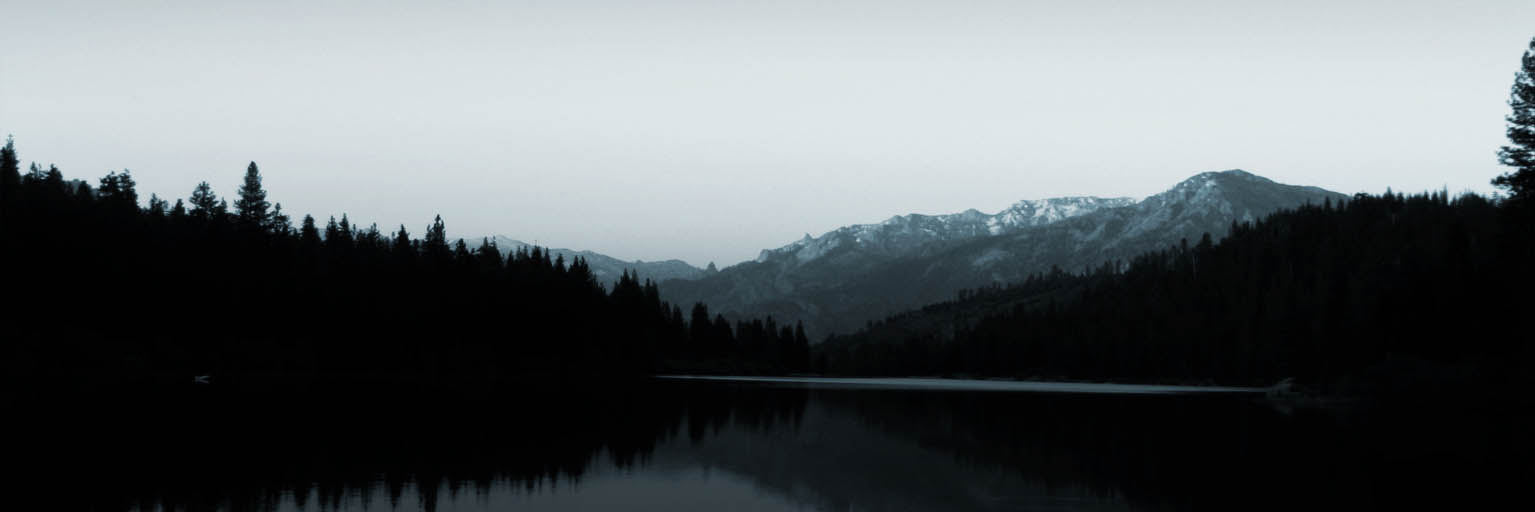
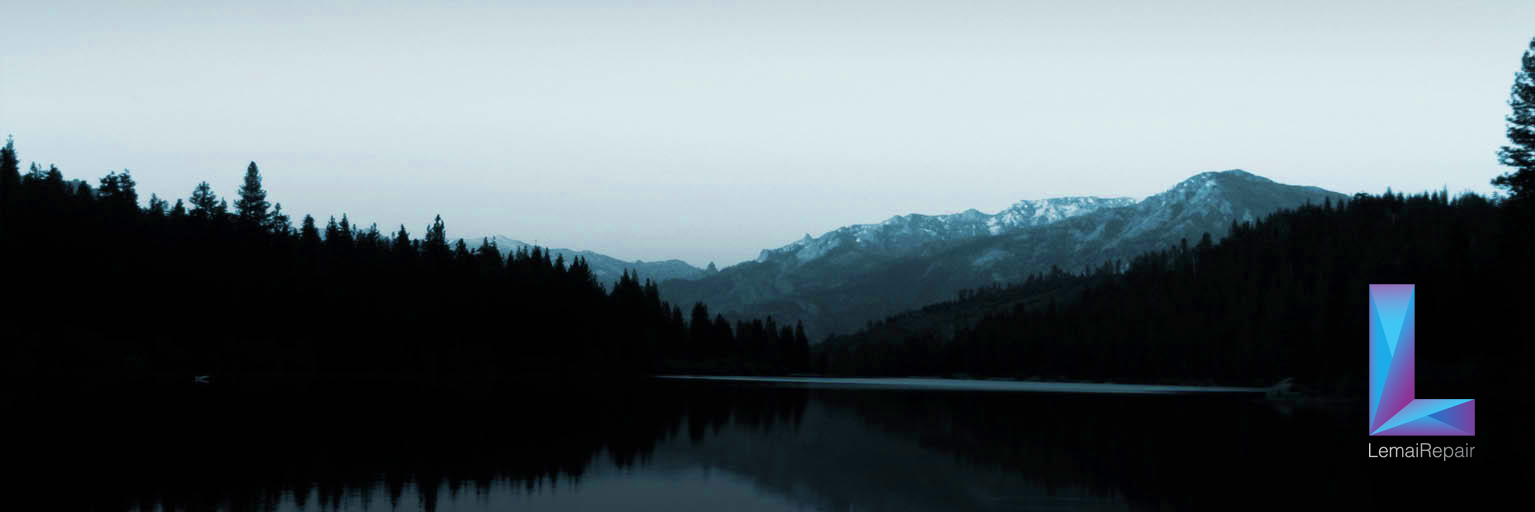
Fixed

Changed region(s): [[0.8879, 0.5312, 0.9798, 0.9062]]

diff --git a/index.html b/index.html
@@ -13,7 +13,7 @@
     <![endif]-->
     <title>LemaiRepair</title>
     <meta name="description" content="">
-    <meta name="author" content="WebThemez">
+    <meta name="author" content="Ralph Lemaire">
     <!--[if lt IE 9]>
         <script src="http://html5shim.googlecode.com/svn/trunk/html5.js"></script>
     <![endif]-->
@@ -36,12 +36,12 @@
         <section id="section-top" class="section section-top">
             <div class="container">
                 <div class="row">
-                    <div class="region region-top-first col-xs-12 col-sm-8 col-md-7 col-lg-7">
+                    <div class="region region-top-first col-xs-12 col-sm-8 col-md-7 col-lg-9">
                         <div class="block-contents ">
 
                             <div class="content">
                                 <ul>
-                                    <li><a href="http://www.google.com"><span data-toggle="tooltip" data-placement="bottom" class="superhero-tooltip" data-original-title="Facebook"><i class="fa fa-facebook"><span></span></i></span></a></li>
+                                    <li><a href="http://www.facebook.com"><span data-toggle="tooltip" data-placement="bottom" class="superhero-tooltip" data-original-title="Facebook"><i class="fa fa-facebook"><span></span></i></span></a></li>
                                     <li><a href="#"><span data-toggle="tooltip" data-placement="bottom" class="superhero-tooltip" data-original-title="Twitter"><i class="fa fa-twitter"><span></span></i></span></a></li>
                                     <li><a href="#"><span data-toggle="tooltip" data-placement="bottom" class="superhero-tooltip" data-original-title="Linkedin"><i class="fa fa-linkedin"><span></span></i></span></a></li>
                                     <li><a href="#"><span data-toggle="tooltip" data-placement="bottom" class="superhero-tooltip" data-original-title="Skype"><i class="fa fa-skype"><span></span></i></span></a></li>
@@ -68,14 +68,15 @@
                         <span class="icon-bar"></span>
                         <span class="icon-bar"></span>
                     </button>
-                    <a href="#" class="navbar-brand scroll-top logo"><b><font color= "2777cc"> LemaiRepair</font></b></a>
+                    <a href="#" class="navbar-brand scroll-top logo"><b><font color= "00aacc"> LemaiRepair</font></b></a>
                 </div>
                 <!--/.navbar-header-->
                 <div id="main-nav" class="collapse navbar-collapse">
                     <ul class="nav navbar-nav" id="mainNav">
                         <li class="active"><a href="#home" class="scroll-link">Home</a></li>
                         <li><a href="#aboutUs" class="scroll-link">Services</a></li>
-                        <li><a href="#services" class="scroll-link">Contact</a></li>
+                        <li><a href="#services" class="scroll-link">Tarieven</a></li>
+                        <li><a href="#Contact" class="scroll-link">Contact</a></li>
                         
                     </ul>
                 </div>
@@ -93,23 +94,19 @@
             <div class="container banner-content">
                 <div id="da-slider" class="da-slider">
                     <div class="da-slide">
-                        <h2>Responsive Website</h2>
-                        <p>Amazing free responsive website for free, use it for your personal or commercial needs</p>
+                        <h2>Computer hulp aan huis</h2>
+                        <p>Heb je hulp nodig bij je computer, tablet, smartphone of een ander digitaal apparaat? <br>Maak dan direct een afspraak!</p>
                         <div class="da-img"></div>
                     </div>
                     <div class="da-slide">
-                        <h2>Bootstrap</h2>
-                        <p>Bootstrap, a sleek, intuitive, and powerful mobile first front-end framework.</p>
+                        <h2>Televisie</h2>
+                        <p>Heeft u hulp nodig met het installeren of instellen van uw TV? Of werkt uw tv niet na behoren? <br> Maak dan direct een afspraak!</p>
                         <div class="da-img"></div>
                     </div>
+                    
                     <div class="da-slide">
-                        <h2>HTML5/CSS3</h2>
-                        <p>HTML5 is a markup language used for structuring and presenting content for the World Wide Web.</p>
-                        <div class="da-img"></div>
-                    </div>
-                    <div class="da-slide">
-                        <h2>JavaScript/jQuery</h2>
-                        <p>jQuery: The Write Less, Do More, JavaScript Library.</p>
+                        <h2>Aansluitservice</h2>
+                        <p>Een nieuwe TV, radio, mediaspeler of computer gekocht? Wij sluiten deze voor u aan zodat u meteen kunt genieten van uw aankoop!</p>
                         <div class="da-img"></div>
                     </div>
                     <nav class="da-arrows">
@@ -125,35 +122,35 @@
         <div class="container">
             <div class="heading text-center">
                 <!-- Heading -->
-                <h2>Services</h2>
-                <p>At lorem Ipsum available, but the majority have suffered alteration in some form by injected humour.</p>
+                <h1><font color = "00bfff">Services </font></h1>
+                <p><font color = bbbbbb>Heb je problemen met je computer? LemaiRepair komt aan huis en lost de problemen vakkundig op. Is jouw computer traag geworden, wil je die eens goed opschonen of juist fris beginnen met een goede computer-installatie? We zijn jouw PC hulplijn en de specialist die je kunt inschakelen bij al je computerproblemen en -vragen.</font></p>
             </div>
             <div class="row">
                 <div class="col-md-4">
                     <img src="images/macbook.png" class="fitImage" alt="img" />
                 </div>
                 <div class="col-md-8">
-                    <h3>Our Company</h3>
-                    <p>Sed ut perspiciatis unde omnis iste natus error sit voluptatem accusantium doloremque laudantium, totam rem aperiam, eaque ipsa quae ab illo inventore veritatis et quasi architecto beatae vitae dicta sunt explicabo. Nemo enim ipsam voluptatem quia voluptas sit aspernatur aut odit aut fugit, sed quia consequuntur magni dolores eos qui ratione voluptatem sequi nesciunt. Neque porro quisquam est, qui dolorem ipsum quia dolor sit amet, consectetur, adipisci velit, sed quia non numquam eius modi tempora incidunt ut labore et dolore magnam aliquam quaerat voluptatem. </p>
+                    <h3>De klant centraal</h3>
+                    <p><font color = "aaaaaa">De beste oplossing is een oplossing op maat. Geen enkele computer is hetzelfde, net zoals elke gebruiker anders is. Bij LemaiRepair passen wij ons aan de klant aan en gaan wij pas weg als elk probleem is opgelost.</font></p>
                 </div>
             </div>
             <div class="row">
                 <div class="col-md-4 col-sm-4">
-                    <h3><i class="fa fa-desktop color"></i>&nbsp; What we do?</h3>
+                    <h3><i class="fa fa-desktop color"></i>&nbsp; Computer APK</h3>
                     <!-- Paragraph -->
-                    <p>Duis aute irure dolor in reprehenderit in voluptate velit esse cillum dolore eu fugiat nulla pariatur. Excepteur sint occaecat cupidatat non proident, sunt in culpa qui officia deserunt mollit occaecat cupidatat non id est laborum.</p>
+                    <p><font color="aaaaaa">Met de LemaiRepair Computer APK voorkomt u dat problemen zich opstapelen, uw computer heeft net zoals uw auto ook af en toe een beetje liefde en aandacht nodig van een professional!</font></p>
                 </div>
                 <div class="col-md-4 col-sm-4">
                     <!-- Heading -->
-                    <h3><i class="fa fa-cloud color"></i>&nbsp;Why choose us?</h3>
+                    <h3><i class="fa fa-cloud color"></i>&nbsp;Data verhuizen?</h3>
                     <!-- Paragraph -->
-                    <p>Duis aute irure dolor in reprehenderit in voluptate velit esse cillum dolore eu fugiat nulla pariatur. Excepteur sint occaecat cupidatat non proident, sunt in culpa qui officia deserunt mollit occaecat cupidatat non id est laborum.</p>
+                    <p><font color = "aaaaaa">Uw oude computer staat soms vol met belangrijke informatie en document. Toch bent u toe aan een nieuw systeem. LemaiRepair neemt de datamigratie voor zijn kiezen, zodat u als vanouds weer doorkunt, maar dan een stukje sneller!</font></p>
                 </div>
                 <div class="col-md-4 col-sm-4">
                     <!-- Heading -->
-                    <h3><i class="fa fa-home color"></i>&nbsp;Where are we?</h3>
+                    <h3><i class="fa fa-home color"></i>&nbsp;Waar komen wij?</h3>
                     <!-- Paragraph -->
-                    <p>Duis aute irure dolor in reprehenderit in voluptate velit esse cillum dolore eu fugiat nulla pariatur. Excepteur sint occaecat cupidatat non proident, sunt in culpa qui officia deserunt mollit occaecat cupidatat non id est laborum.</p>
+                    <p><font color = "aaaaaa">Tot aan de deur! <br> Elke bewoner in en rondom Maastricht wordt aan huis geholpen. Op deze manier verzekeren wij dat alles ook echt werkt, van draadloze netwerk verbinding tot printer!</font></p>
                 </div>
             </div>
         </div>
@@ -163,57 +160,36 @@
         <div class="container">
             <div class="heading text-center">
                 <!-- Heading -->
-                <h2>Contact</h2>
-                <p>At lorem Ipsum available, but the majority have suffered alteration in some form by injected humour.</p>
+                <h2>Tarieven</h2>
+                <p>Net zoals de service, gewoon goed.</p>
             </div>
             <div class="row">
 
                 <!-- item -->
                 <div class="col-md-4 text-center">
                     <i class="fa fa-arrows fa-2x circle"></i>
-                    <h3>Responsive <span class="id-color">Design</span></h3>
-                    <p>Nullam ac rhoncus sapien, non gravida purus. Alinon elit imperdiet congue. Integer elit imperdiet congue.</p>
+                    <h3><span class="id-color">€9,- voorrijkosten</span></h3>
+                    <p>Voor het tarief buiten Maastricht graag contact opnemen</p>
                 </div>
                 <!-- end: -->
 
                 <!-- item -->
                 <div class="col-md-4 text-center">
                     <i class="fa fa-css3 fa-2x circle"></i>
-                    <h3>HTML5/CSS3 <span class="id-color">Dev</span></h3>
-                    <p>Nullam ac rhoncus sapien, non gravida purus. Alinon elit imperdiet congue. Integer elit imperdiet congue.</p>
+                    <h3> <span class="id-color">€8,- per kwartier</span></h3>
+                    <p>*minimale afname is 30 min.  .</p>
                 </div>
                 <!-- end: -->
 
                 <!-- item -->
                 <div class="col-md-4 text-center">
                     <i class="fa fa-lightbulb-o fa-2x circle"></i>
-                    <h3>JavaScript <span class="id-color">jQuery</span></h3>
-                    <p>Nullam ac rhoncus sapien, non gravida purus. Alinon elit imperdiet congue. Integer ultricies sed elit impe.</p>
+                    <h3><span class="id-color">Duidelijkheid Vooraf</span></h3>
+                    <p>Reparatietijden worden vooraf ingeschat, hierdoor komt u niet voor vervelende verassingen te staan.</p>
                 </div>
                 <!-- end: -->
 
-                <!-- item -->
-                <div class="col-md-4 text-center">
-                    <i class="fa fa-globe fa-2x circle"></i>
-                    <h3>Web <span class="id-color">Designing</span></h3>
-                    <p>Nullam ac rhoncus sapien, non gravida purus. Alinon elit imperdiet congue. Integer elit imperdiet conempus.</p>
-                </div>
-                <!-- end:-->
-                <!-- item -->
-                <div class="col-md-4 text-center">
-                    <i class="fa fa-desktop fa-2x circle"></i>
-                    <h3>Wordpress <span class="id-color">Dev</span></h3>
-                    <p>Nullam ac rhoncus sapien, non gravida purus. Alinon elit imperdiet congue. Integer ultricies sed elit imperdiet congue. Integer ultricies sed ligula eget tempus.</p>
-                </div>
-                <!-- end: -->
-
-                <!-- item -->
-                <div class="col-md-4 text-center">
-                    <i class="fa fa-tablet fa-2x circle"></i>
-                    <h3>Mobile <span class="id-color">Dev</span></h3>
-                    <p>Nullam ac rhoncus sapien, non gravida purus. Alinon elit imperdiet congue. Integer elit imperdiet congue. Integer ultricies sed ultricies sed ligula eget tempus.</p>
-                </div>
-                <!-- end:-->
+             
 
             </div>
         </div>
@@ -223,7 +199,7 @@
     
    
 
-    <section id="contactUs" class="contact-parlex">
+    <section id="Contact" class="contact-parlex">
         <div class="parlex-back">
             <div class="container">
 
@@ -234,25 +210,22 @@
                         <p>Wilt u een afspraak maken of heeft u vragen? .</p>
                     </div>
                 </div>
-
-                <div class="row mrgn30">
-
-                    
-                    
+                <div class="row mrgn0">
                         <center>
-                        <h4>Email:</h4><br>
-                        lemairepair@gmail.com
-                        <h4>Adres:</h4>
-                        <address>
-                            LemaiRepair<br>
+                        <h2>E-mail:</h2>
+                        <h3>lemairepair@gmail.com</h3>
+                            <h2>Telefoon:</h2>
+                            <h3>06-48626941<br></h3>
+                        <address> <br>
+                            <h2>Adres:</h2>
+                            <h3>LemaiRepair<br>
                             Ambyerstraat-Zuid 142<br>
-                            6225AK Maastricht
+                            6225AK Maastricht</h3>
                         <br>
                         </address>
-                        <h4>telefoon:</h4>
+                       
                         <address>
-                            06-48626941<br>
-                            lemairepair@gmail.com<br>
+                           
                         </address></center>
                     
                 </div>
@@ -261,7 +234,7 @@
         </div>
     </section>
     <section class="maps">
-        <iframe src="http://maps.google.com/maps?f=q&t=m&z=15&ll=-7.269152,112.733127&output=embed" width="100%" height="250" frameborder="0"></iframe>
+        <iframe src="https://maps.google.com/maps?q=Ambyerstraat-zuid%20142&t=&z=13&ie=UTF8&iwloc=&output=embed" width="100%" height="250" frameborder="0"></iframe>
     </section>
     <footer>
         <div class="container">
@@ -282,7 +255,7 @@
         <div class="container">
             <div class="row">
                 <div class="col-sm-12 text-center">
-                    Copyright 2014 | All Rights Reserved -- Template by <a href="http://webThemez.com">WebThemez.com</a>        
+                    Copyright 2019-2020 | All Rights Reserved R.Lemaire</a>        
                 </div>
             </div>
             <!-- / .row -->
